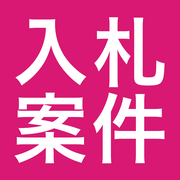
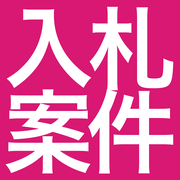
ファビコン: 全面マゼンタ・文字拡大

Changed region(s): [[0.0278, 0.0278, 0.9722, 0.9722], [0.0278, 0.0278, 0.5, 0.5], [0.3056, 0.3056, 0.3333, 0.3611]]

diff --git a/index.html b/index.html
@@ -4,7 +4,7 @@
 <meta charset="utf-8">
 <meta name="viewport" content="width=device-width, initial-scale=1">
 <title>西日本 撮影・映像 入札案件モニター</title>
[2 lines of base64/hex data omitted]
 <link rel="apple-touch-icon" href="apple-touch-icon.png">
 <meta name="apple-mobile-web-app-title" content="入札モニター">
 <meta name="theme-color" content="#d81872">
@@ -127,7 +127,7 @@
     <h1>西日本 撮影・映像 入札案件モニター</h1>
     <p class="sub">関西（大阪・京都・兵庫・奈良・滋賀・和歌山）＋三重 を毎回深掘り。あわせて中国・四国・中部・東海も巡回。撮影（写真・動画・映像）を含みそうな公共入札・プロポーザルを幅広く収集。ドローン空撮の使い所は記号（◎○△）で補足表示。</p>
     <div class="updated">
-      <span><span class="dot"></span>最終更新 <b>2026-07-29 02:30</b></span>
+      <span><span class="dot"></span>最終更新 <b>2026-07-29 02:38</b></span>
       <span>自動更新：<b>毎週 月・木</b></span>
     </div>
   </header>
